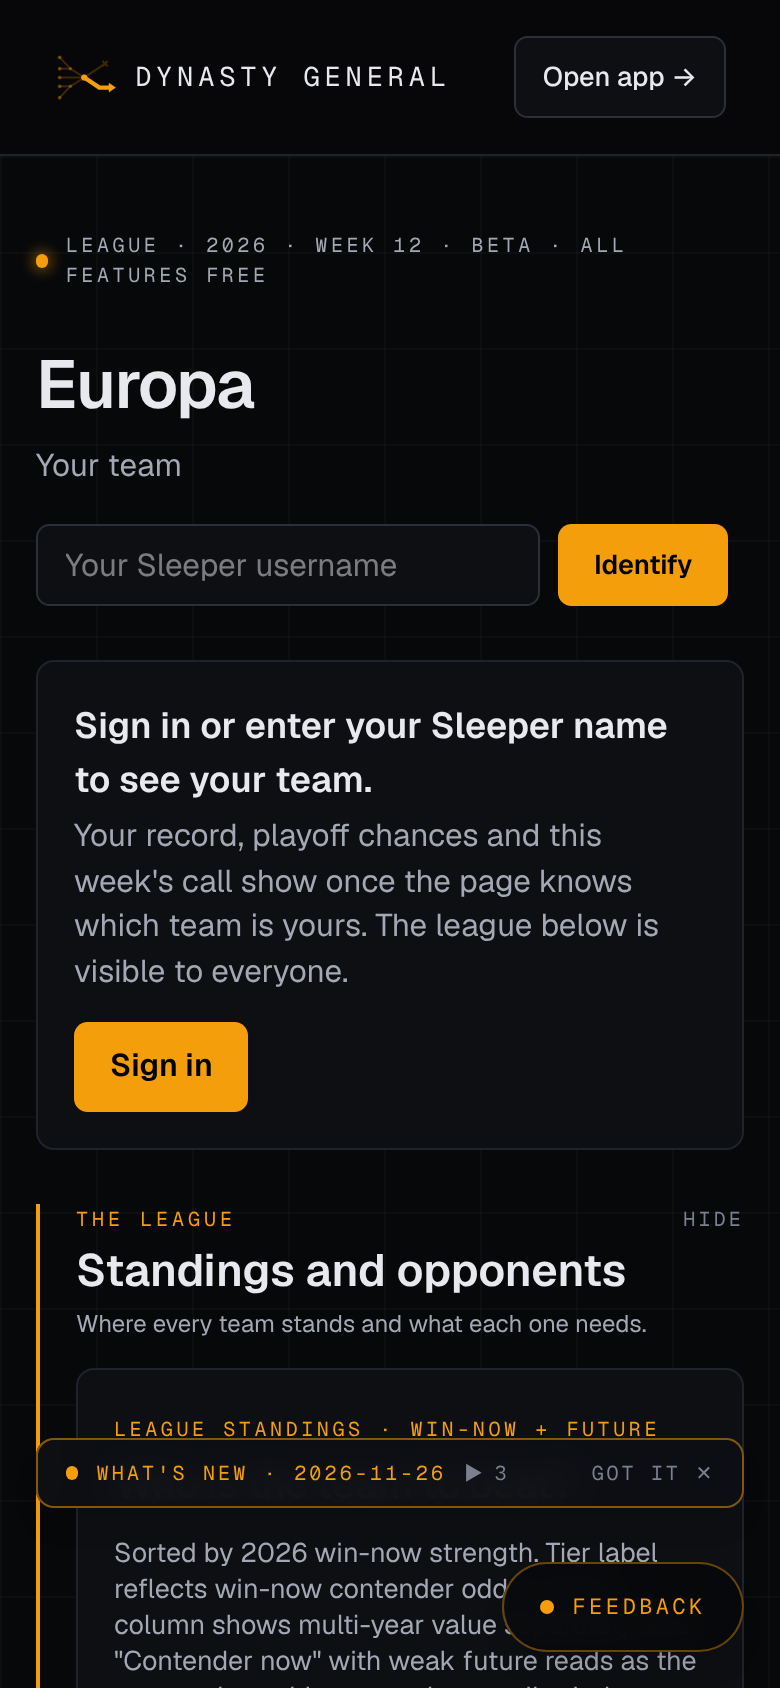
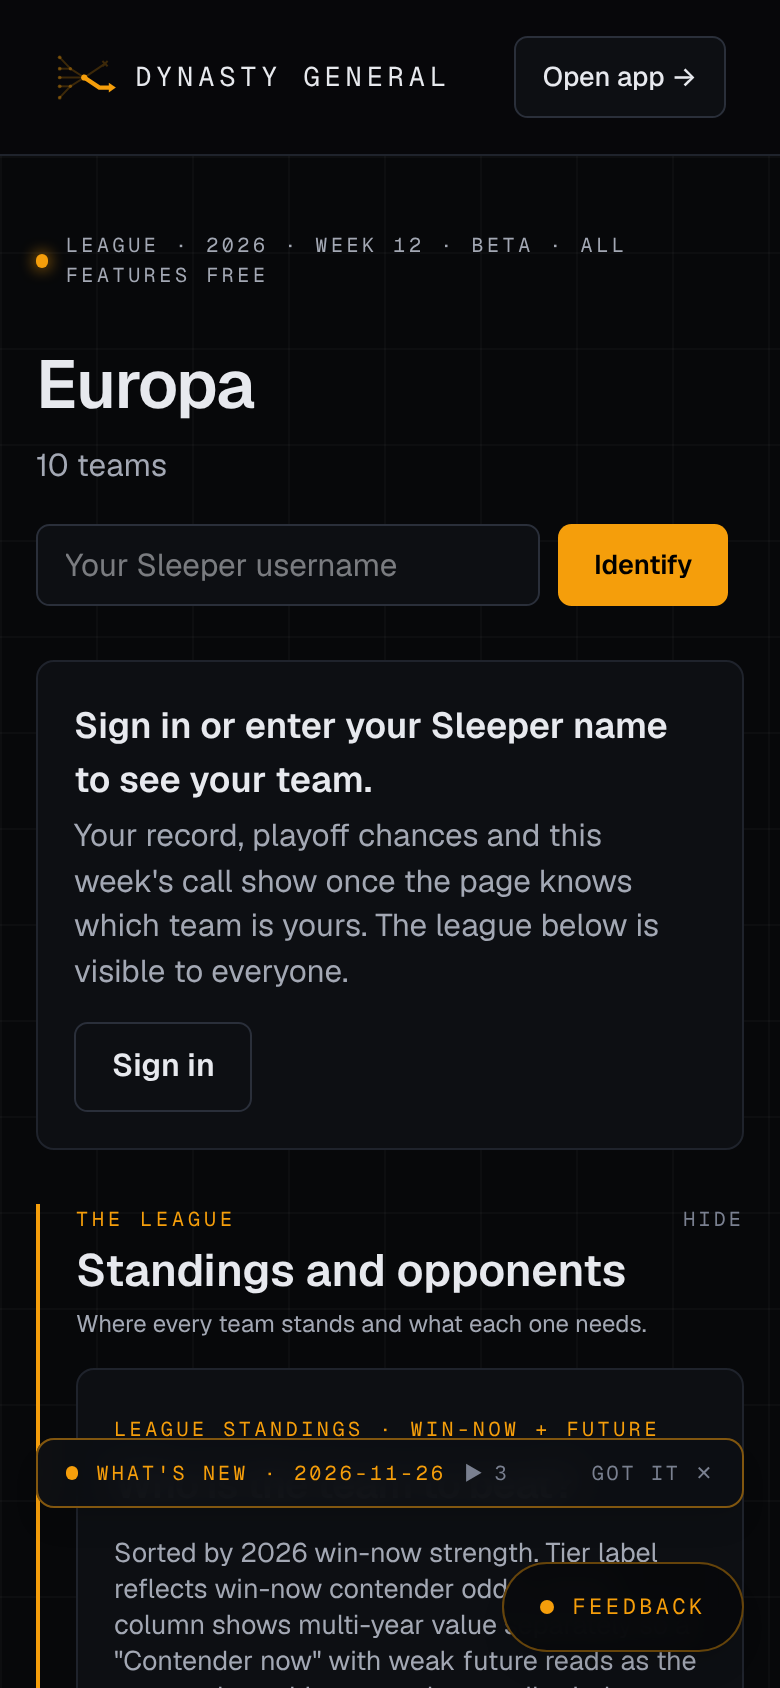
No-team league page: header names the league size, Sign in is the secondary action
Claude-Session: https://claude.ai/code/session_014dZxKd6LALUkPtsHqxYePm

Changed region(s): [[0.0923, 0.5853, 0.3385, 0.6777], [0.0615, 0.2464, 0.2154, 0.3081]]

diff --git a/src/app/leagues/[leagueId]/page.tsx b/src/app/leagues/[leagueId]/page.tsx
@@ -2346,7 +2346,8 @@ export default async function LeagueHubPage({
                 </div>
               )}
               <div className="mt-2 text-sm text-muted">
-                {String(teamName)}
+                {/* No matched roster: name the league size, not "Your team". */}
+                {myRoster ? String(teamName) : `${totalRosters} teams`}
                 {standing && (
                   <>
                     <span className="text-muted-2"> · </span>
@@ -2420,7 +2421,7 @@ export default async function LeagueHubPage({
               {!authUser && (
                 <Link
                   href={`/login?next=${encodeURIComponent(`/leagues/${leagueId}`)}`}
-                  className="mt-3 inline-flex min-h-10 items-center rounded-md bg-accent px-4 text-sm font-semibold text-black"
+                  className="mt-3 inline-flex min-h-10 items-center rounded-md border border-border-strong px-4 text-sm font-semibold text-foreground hover:border-accent"
                 >
                   Sign in
                 </Link>
